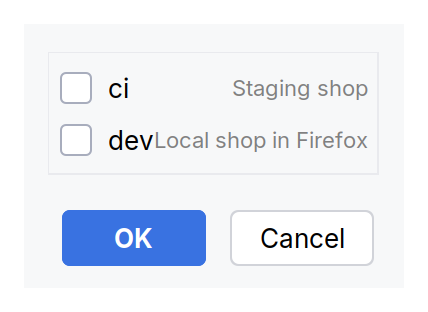
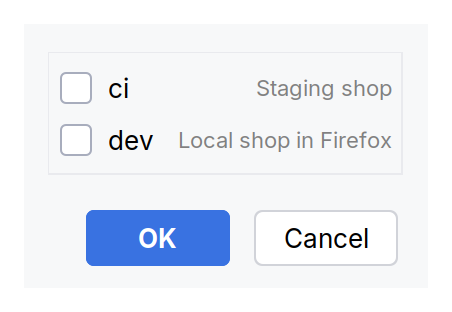
fix(intellij): select the server log and polish small UI details
Show Language Server Log now selects the running RobotCode language server and its Logs tab in the Language Servers tool window instead of only opening the window. The Select Configuration Profiles dialog keeps a gap between a profile's name and its description, Find Action no longer lists the internal action that RobotCode's code actions use, and the help text of Open output after run names Open output target instead of an external browser.

diff --git a/intellij-client/src/main/kotlin/dev/robotcode/robotcode4ij/configuration/RobotCodeProfilesDialog.kt b/intellij-client/src/main/kotlin/dev/robotcode/robotcode4ij/configuration/RobotCodeProfilesDialog.kt
@@ -7,9 +7,16 @@ import com.intellij.openapi.util.text.StringUtil
 import com.intellij.ui.CheckBoxList
 import com.intellij.ui.dsl.builder.Align
 import com.intellij.ui.dsl.builder.panel
+import com.intellij.util.ui.JBUI
 import dev.robotcode.robotcode4ij.RobotCodeBundle
 import javax.swing.Action
+import javax.swing.BorderFactory
+import javax.swing.JCheckBox
 import javax.swing.JComponent
+import javax.swing.JLabel
+
+// between a profile's name and its description, which the list puts right after the name in its widest row
+private const val DESCRIPTION_GAP = 12
 
 /**
  * The profile list: the profiles of a [choice] to check, with their descriptions, and one line for the removed
@@ -25,6 +32,20 @@ internal class RobotCodeProfilesDialog(
 
     private val list = object : CheckBoxList<String>() {
         override fun getSecondaryText(index: Int): String? = profiles.getOrNull(index)?.description?.ifBlank { null }
+
+        // the description is the row's label, which has a margin on its right only
+        override fun adjustRendering(
+            rootComponent: JComponent,
+            checkBox: JCheckBox,
+            index: Int,
+            selected: Boolean,
+            hasFocus: Boolean
+        ): JComponent {
+            rootComponent.components.filterIsInstance<JLabel>().firstOrNull()?.let { label ->
+                label.border = BorderFactory.createCompoundBorder(label.border, JBUI.Borders.emptyLeft(DESCRIPTION_GAP))
+            }
+            return rootComponent
+        }
     }
 
     val checkedNames: List<String>

diff --git a/intellij-client/src/main/kotlin/dev/robotcode/robotcode4ij/actions/RobotCodeShowLanguageServerLogAction.kt b/intellij-client/src/main/kotlin/dev/robotcode/robotcode4ij/actions/RobotCodeShowLanguageServerLogAction.kt
@@ -4,9 +4,13 @@ import com.intellij.openapi.actionSystem.ActionUpdateThread
 import com.intellij.openapi.actionSystem.AnAction
 import com.intellij.openapi.actionSystem.AnActionEvent
 import com.intellij.openapi.wm.ToolWindowManager
+import com.redhat.devtools.lsp4ij.LanguageServersRegistry
+import com.redhat.devtools.lsp4ij.console.LSPConsoleToolWindowPanel
+import dev.robotcode.robotcode4ij.lsp.RobotCodeLanguageServerManager
 
 /**
- * Opens LSP4IJ's Language Servers tool window, which shows the output of the RobotCode language server.
+ * Opens LSP4IJ's Language Servers tool window at the Logs tab of the running RobotCode language server, which shows the
+ * output of the server.
  */
 class RobotCodeShowLanguageServerLogAction : AnAction() {
     companion object {
@@ -21,6 +25,11 @@ class RobotCodeShowLanguageServerLogAction : AnAction() {
 
     override fun actionPerformed(e: AnActionEvent) {
         val project = e.project ?: return
-        ToolWindowManager.getInstance(project).getToolWindow(LANGUAGE_SERVERS_TOOL_WINDOW)?.activate(null)
+        val toolWindow = ToolWindowManager.getInstance(project).getToolWindow(LANGUAGE_SERVERS_TOOL_WINDOW) ?: return
+        toolWindow.activate {
+            // selects the server's running process and its Logs tab; without a running server, nothing is selected
+            LanguageServersRegistry.getInstance().getServerDefinition(RobotCodeLanguageServerManager.LANGUAGE_SERVER_ID)
+                ?.let { LSPConsoleToolWindowPanel.selectLogTab(it, project) }
+        }
     }
 }

diff --git a/intellij-client/src/test/kotlin/dev/robotcode/robotcode4ij/lsp/RobotCodeShowDocumentSelectAndRenameActionTest.kt b/intellij-client/src/test/kotlin/dev/robotcode/robotcode4ij/lsp/RobotCodeShowDocumentSelectAndRenameActionTest.kt
@@ -1,0 +1,15 @@
+package dev.robotcode.robotcode4ij.lsp
+
+import com.intellij.openapi.actionSystem.ActionManager
+import com.intellij.testFramework.fixtures.BasePlatformTestCase
+
+/** The client command of RobotCode's code actions: LSP4IJ finds the action by its id, Find Action leaves it out. */
+class RobotCodeShowDocumentSelectAndRenameActionTest : BasePlatformTestCase() {
+
+    fun testTheClientCommandIsAnActionWithoutText() {
+        val action = ActionManager.getInstance().getAction("_robotcode.codeActionShowDocumentSelectAndRename")
+
+        assertInstanceOf(action, RobotCodeShowDocumentSelectAndRenameAction::class.java)
+        assertTrue(action.templatePresentation.text.isNullOrEmpty())
+    }
+}
